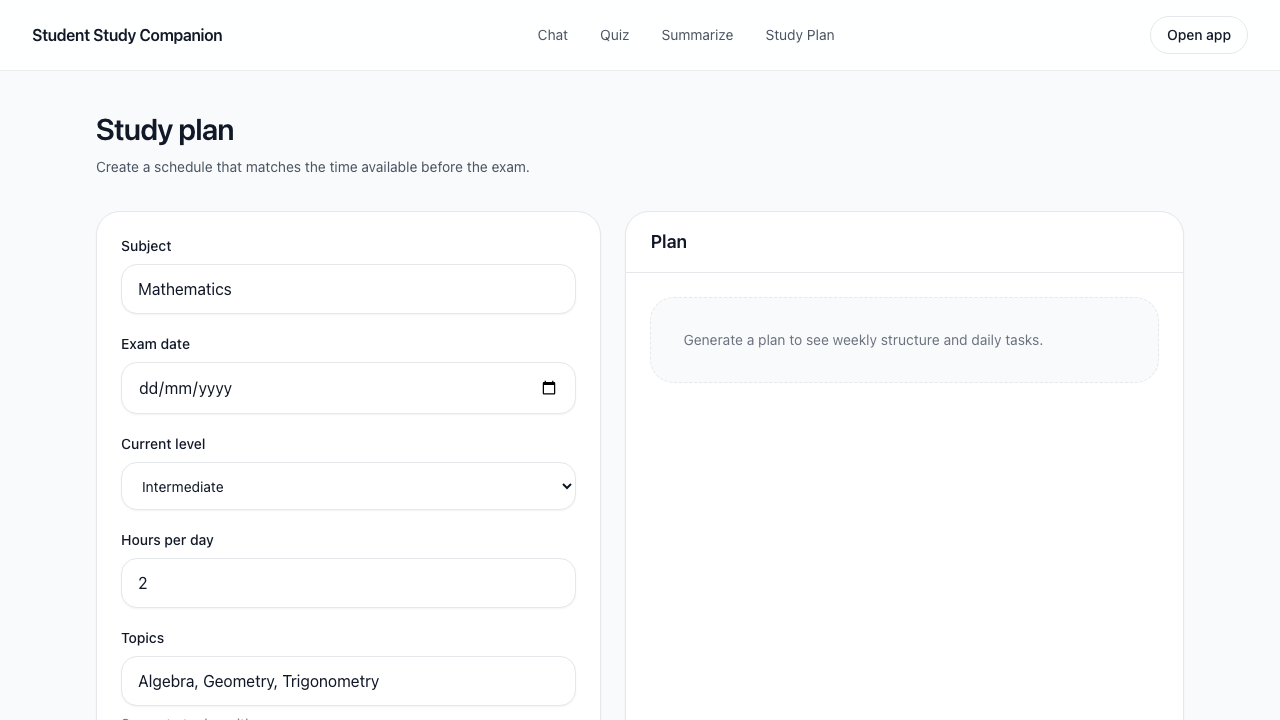
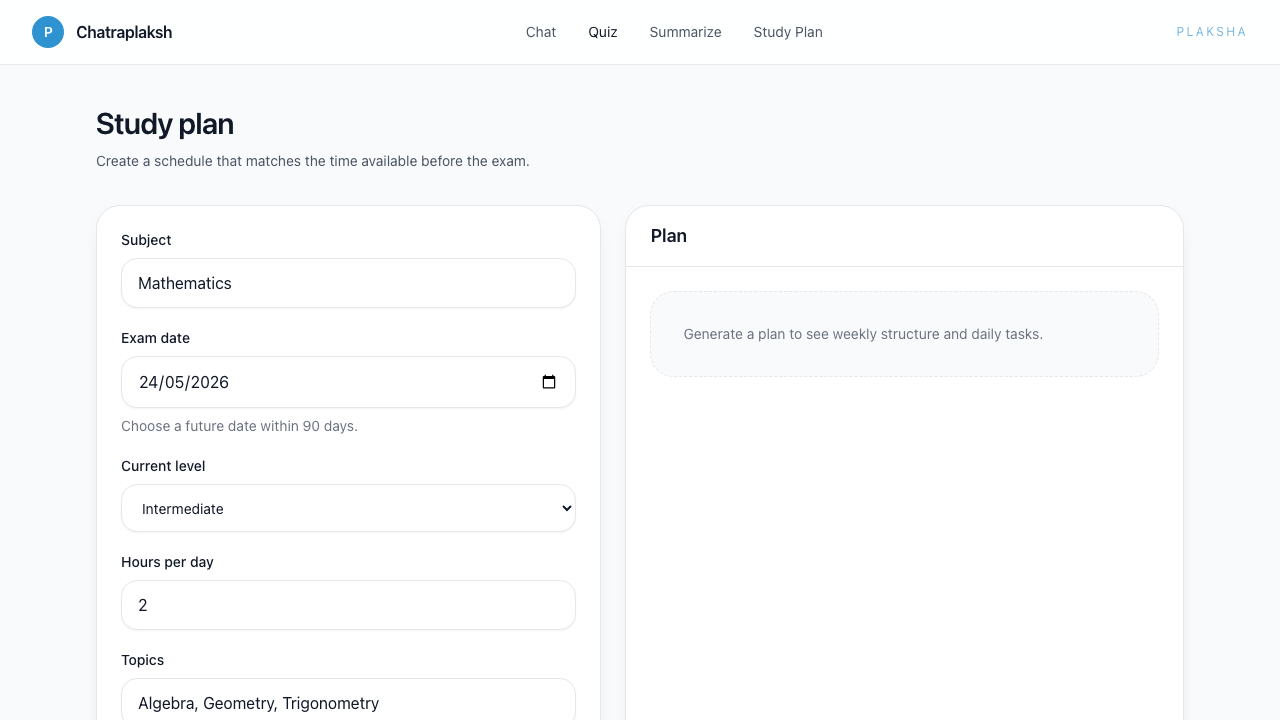
Update README and refresh screenshots

diff --git a/README.md b/README.md
@@ -1,6 +1,10 @@
 # Chatraplaksh
 
-A simple study workspace for students who want help with four common tasks:
+A simple study workspace for students who want help with four common tasks.
+
+Live deployment: https://gr-meetup.vercel.app/
+
+Core tasks:
 
 - **Chat** with an AI tutor for explanations and study help
 - **Generate quizzes** by topic and difficulty
@@ -38,7 +42,7 @@ From running the app locally, the main user flows are:
 
 ## Requirements
 
-- [Bun](https://bun.sh/)
+- npm
 - Node.js 18+
 - A `GROQ_API_KEY` in your environment file for live AI-backed responses
 
@@ -47,7 +51,7 @@ From running the app locally, the main user flows are:
 1. Install dependencies:
 
 ```bash
-bun install
+npm install
 ```
 
 2. Create an environment file:
@@ -67,7 +71,7 @@ GROQ_API_KEY=your_key_here
 Start the development server:
 
 ```bash
-bun run dev
+npm run dev
 ```
 
 Then open:
@@ -79,12 +83,12 @@ http://localhost:3000
 ## Available scripts
 
 ```bash
-bun run dev        # start local dev server
-bun run build      # production build
-bun run start      # run production server
-bun run lint       # lint the project
-bun run type-check # TypeScript checks
-bun run format     # format files
+npm run dev        # start local dev server
+npm run build      # production build
+npm run start      # run production server
+npm run lint       # lint the project
+npm run type-check # TypeScript checks
+npm run format     # format files
 ```
 
 ## How to use it